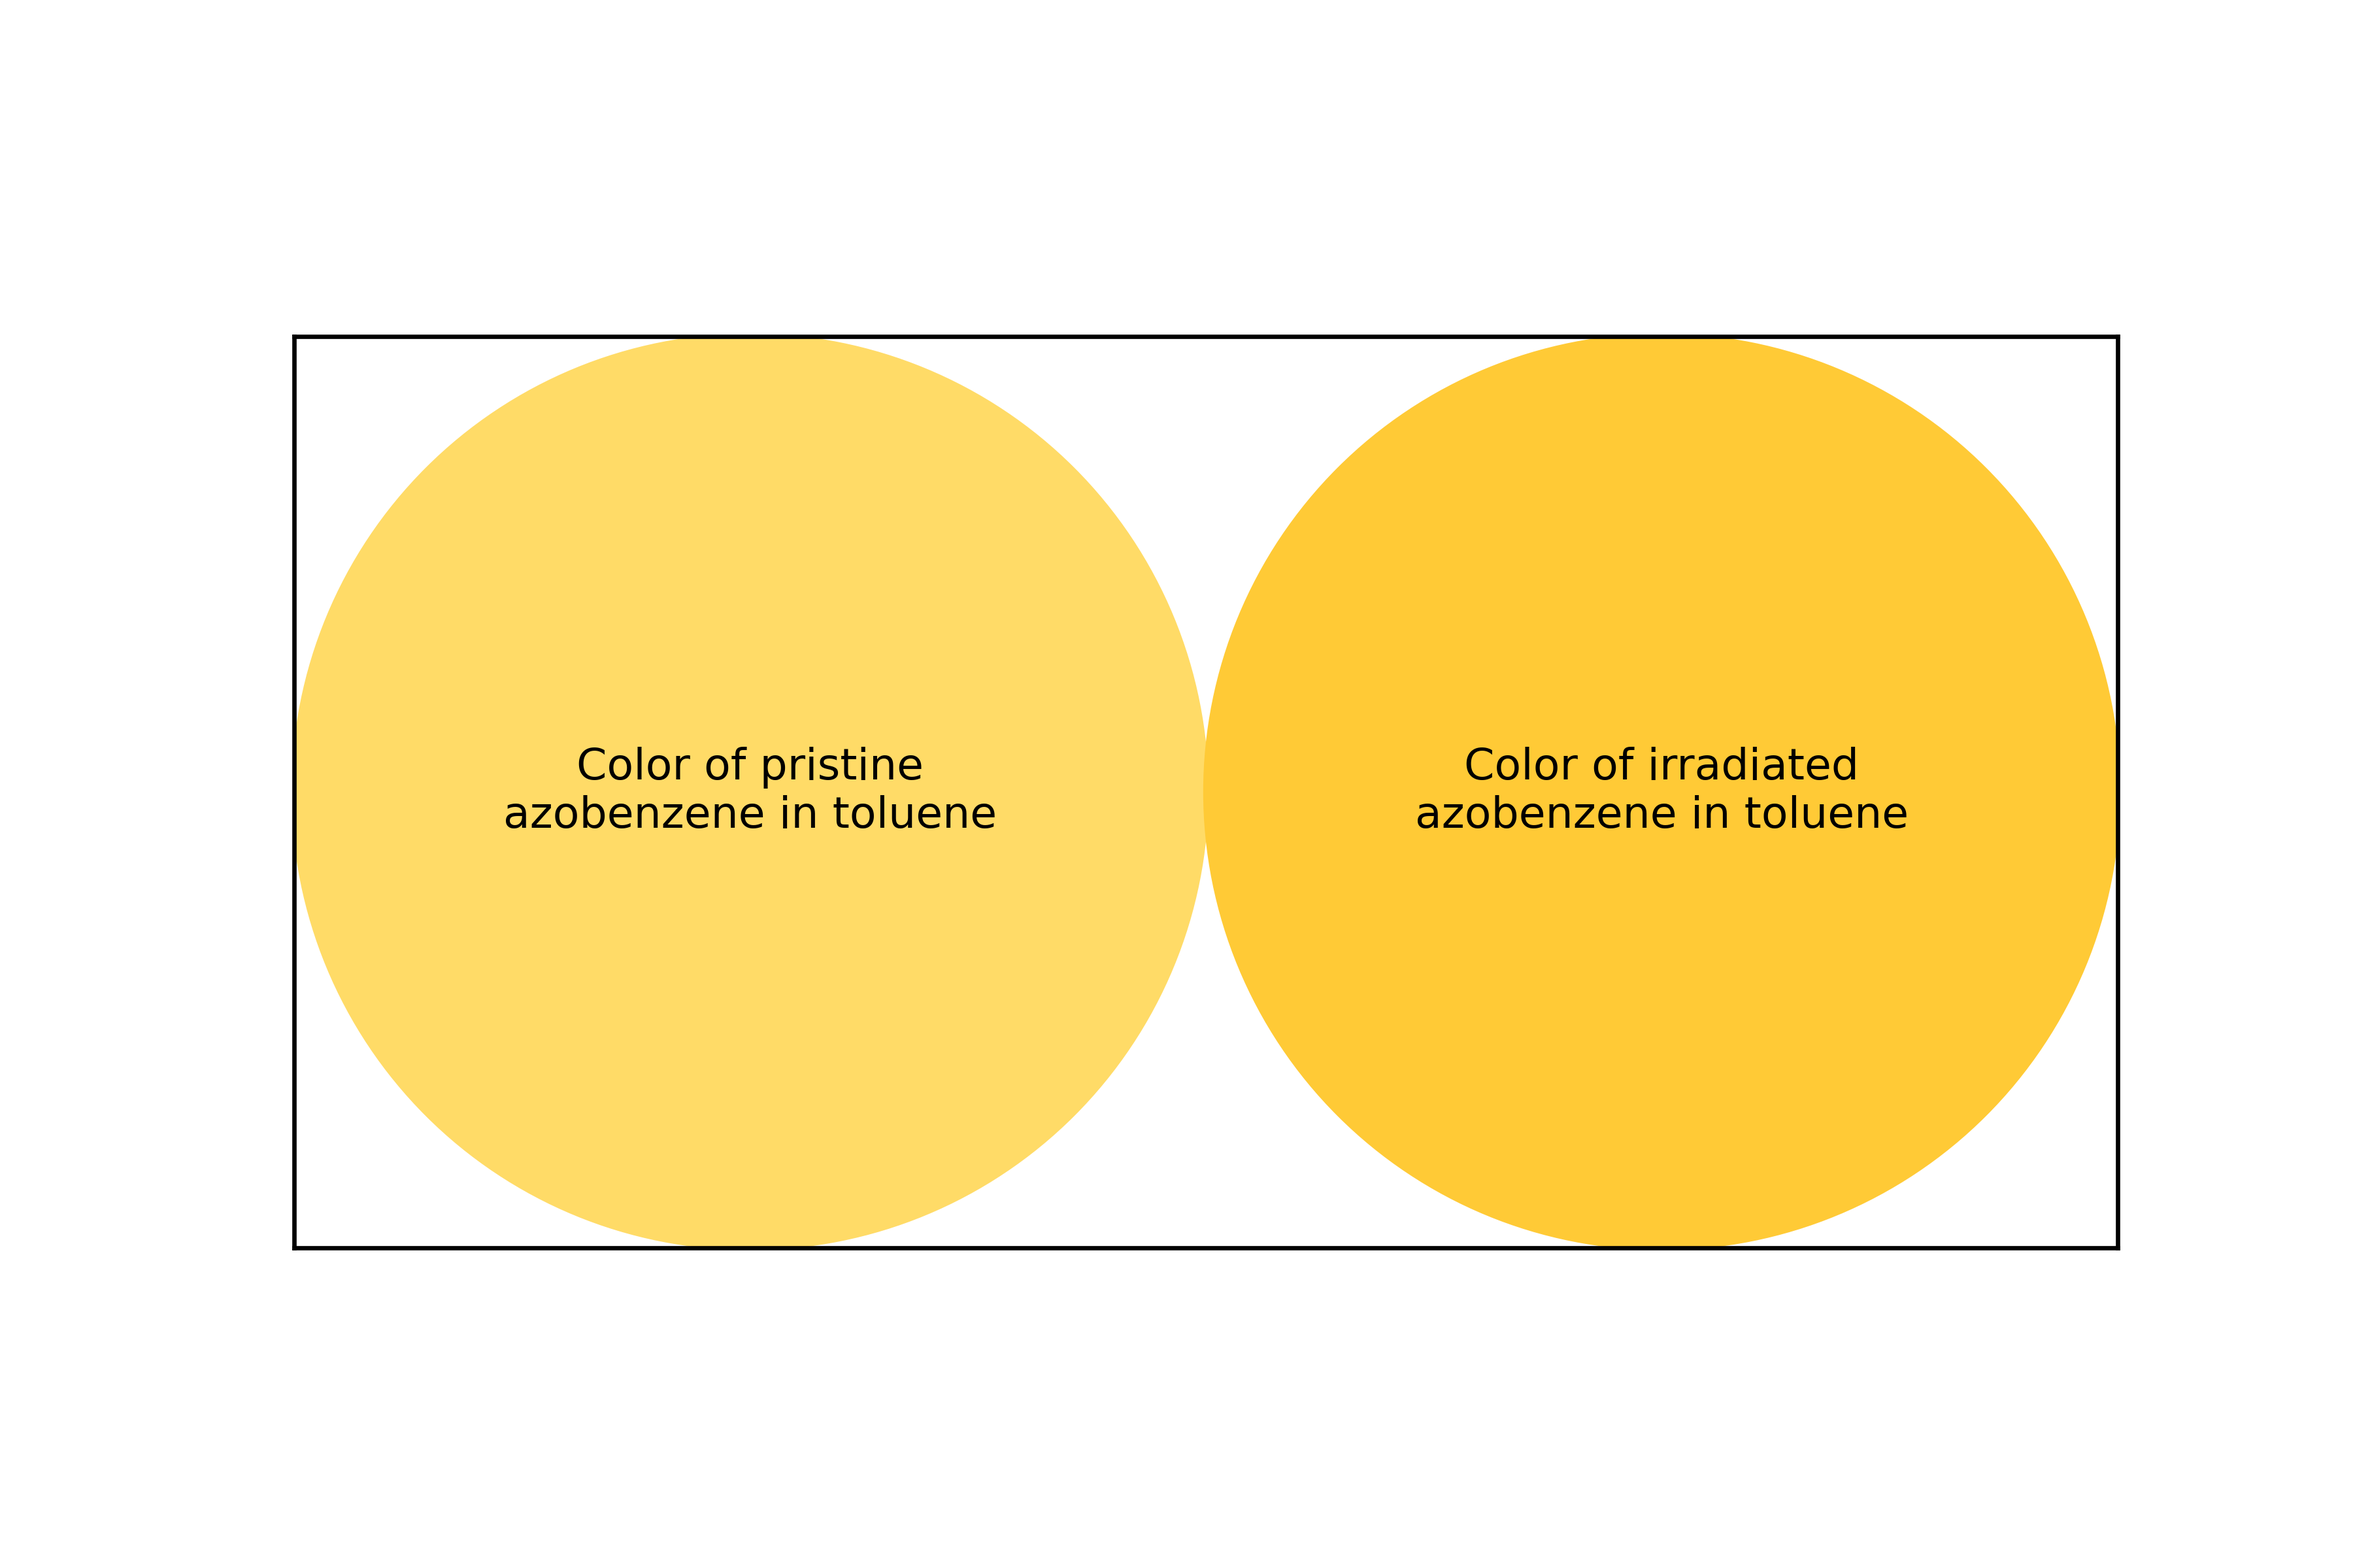
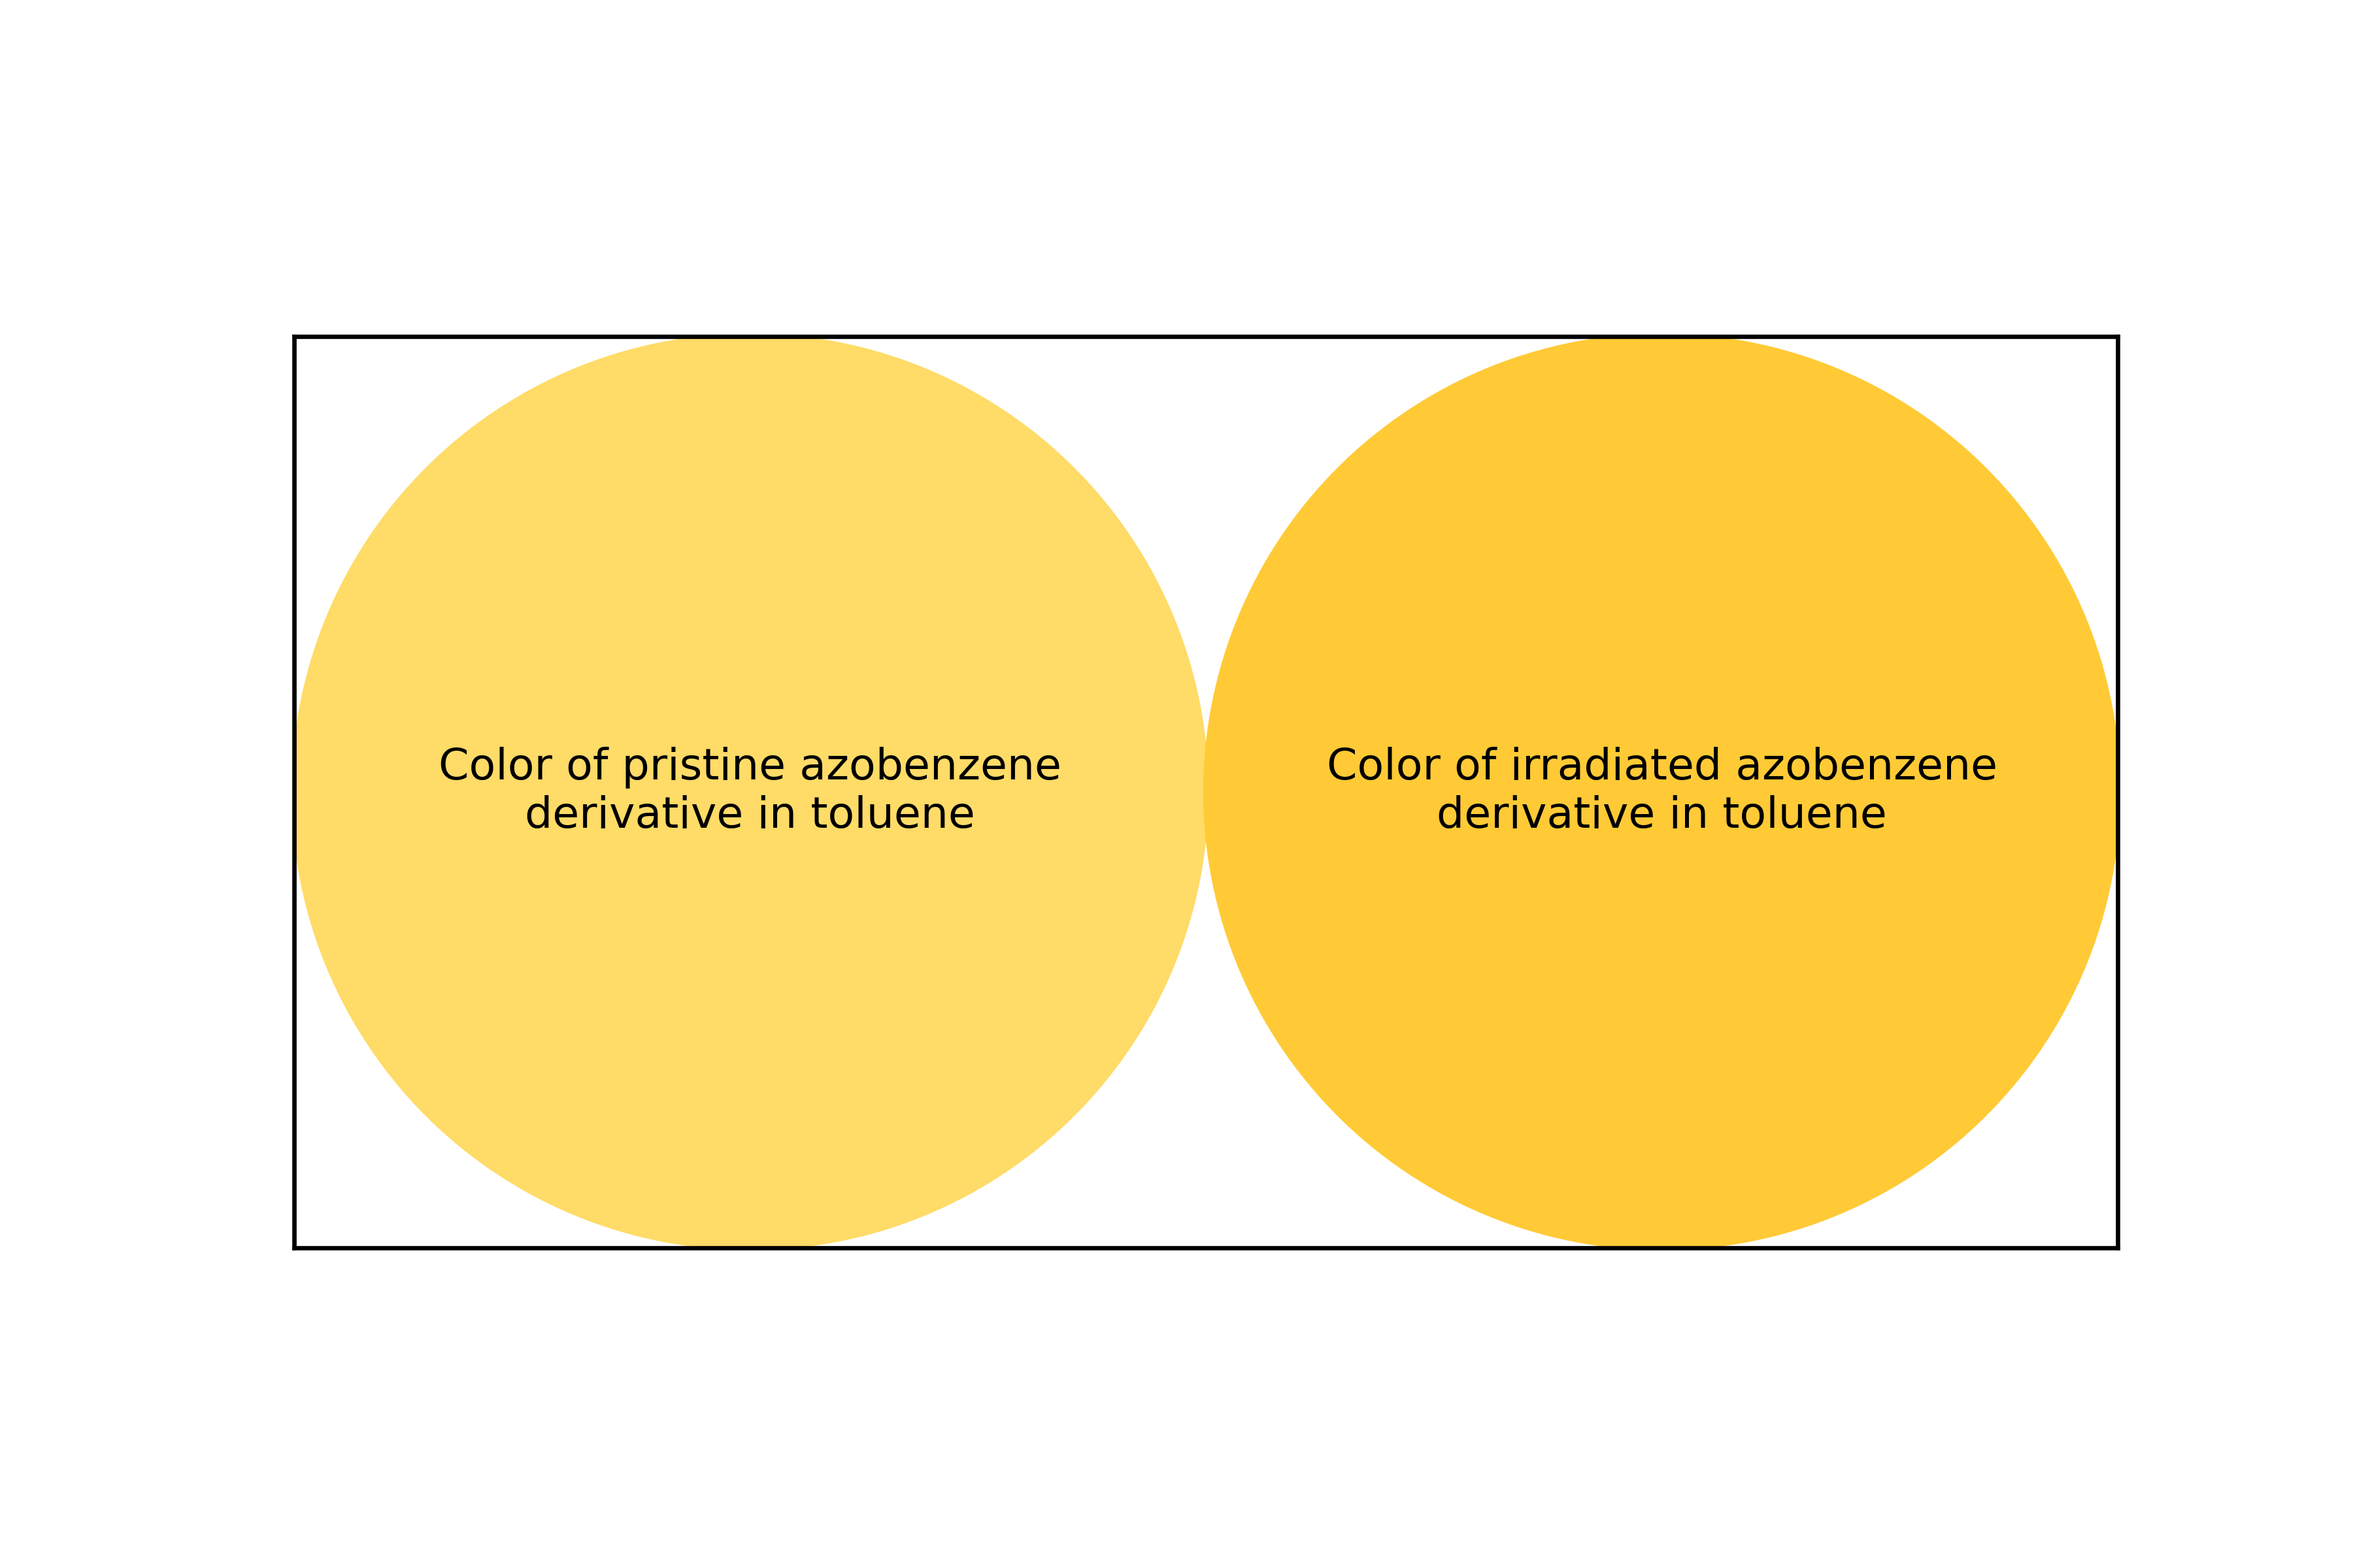
Updated annotations in image

Changed region(s): [[0.56, 0.4688, 0.84, 0.5312], [0.1867, 0.4688, 0.4667, 0.5312]]

diff --git a/examples/calculate dye solution color.py b/examples/calculate dye solution color.py
@@ -70,7 +70,7 @@ for idx, curr_name in enumerate(sample_names):
         (idx, 0), 0.5,
         color=trans_colorset.get_color_values('RGB').loc[curr_name].values)
     ax1.add_patch(circles[curr_name])
-    ax1.annotate('Color of {}\nazobenzene in toluene'.format(curr_name),
+    ax1.annotate('Color of {} azobenzene\nderivative in toluene'.format(curr_name),
                  xy=(idx, 0), fontsize=8, ha='center', va='center')
 
 fig1.savefig('Dye solution color from spectrum.png')
